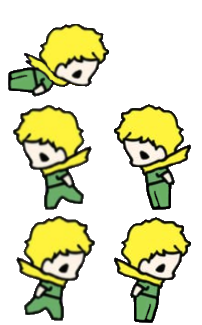
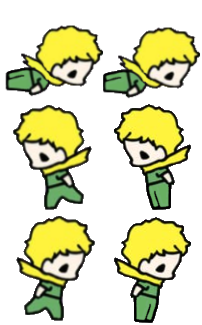
make character move four direction

Changed region(s): [[0.505, 0.0615, 1.0, 0.3077], [0.0, 0.0615, 0.5347, 0.3077]]

diff --git a/Project Runaway/prince.py b/Project Runaway/prince.py
@@ -11,11 +11,14 @@ class Prince:
 
     TIME_PER_ACTION = 0.5
     ACTION_PER_TIME = 1.0 / TIME_PER_ACTION
-    FRAMES_PER_ACTION = 8
+    FRAMES_PER_ACTION = 2
 
     image = None
 
-    LEFT_RUN, RIGHT_RUN, LEFT_STAND, RIGHT_STAND = 0, 1, 2, 3
+    LEFT, RIGHT, UP, DOWN = 1, 0, 2, 3
+
+    state_check = 0
+
 
     def __init__(self):
         self.x, self.y = 20, 90
@@ -23,11 +26,12 @@ class Prince:
         self.frame = 0
         self.life_time = 0.0
         self.total_frames = 0.0
-        self.dir = 0
-        self.state = self.RIGHT_STAND
+        self.dir = 1
+        self.state = self.RIGHT
+        self.state_check = 0
+
         if Prince.image == None:
-#            Prince.image = load_image('prince_animation_small.png')
-            Prince.image = load_image('prince_6_1.png')
+            Prince.image = load_image('prince_7.png')
 
 
     def update(self, frame_time):
@@ -36,28 +40,25 @@ class Prince:
 
         self.life_time += frame_time
         distance = Prince.RUN_SPEED_PPS * frame_time
-##        self.total_frames += Prince.FRAMES_PER_ACTION * Prince.ACTION_PER_TIME * frame_time
         self.total_frames += Prince.FRAMES_PER_ACTION * Prince.ACTION_PER_TIME * frame_time / 2
 
         self.frame = int(self.total_frames) % 2
 #        self.handle_state[self.state](self)
 
-##        self.frame = (self.frame + 1) % 5
-        self.x += (self.dir * distance)
+        self.x += (self.dir * distance)/2
 
         self.x = clamp(0, self.x, 800)
-#        self.frame = (self.frame+1) % 2
-#        self.x += 5
+
+
+        if self.state == self.UP:
+            self.y = min(180, self.y + 90)
+        elif self.state == self.DOWN:
+#            self.y = max(0, self.y - 5)
+            self.y = 90
 
     def draw(self):
     #    self.image.clip_draw(0,0,60,80,self.x,self.y)
-         self.image.clip_draw(self.frame * 100, 0, 100, 112, self.x, self.y)
-
-    #        self.image.clip_draw(self.frame * 100, self.state * 100, 100, 100, self.x, self.y)
-
-    #     self.image.clip_draw(self.frame * 100, self.state * 300, 100, 100, self.x, self.y)
-    #        self.image.clip_draw(self.frame * 50, self.state * 50, 100, 100, self.x, self.y)
-               #   clip_draw(left, bottom, width, height, x, y)
+         self.image.clip_draw(self.frame * 100, (self.state % 5) * 112, 100, 112, self.x, self.y)
 
     def get_bb(self):       #bb - bounding box
         return self.x - 20, self.y - 40, self.x + 20, self.y + 40
@@ -67,33 +68,28 @@ class Prince:
 
     def handle_event(self, event):
         if (event.type, event.key) == (SDL_KEYDOWN, SDLK_LEFT):
-            if self.state in (self.RIGHT_STAND, self.LEFT_STAND, self.RIGHT_RUN):
-                self.state = self.LEFT_RUN
+            if self.state in (self.LEFT, self.RIGHT,self.DOWN, self.UP):
+                self.state = self.LEFT
                 self.dir = -1
+                self.state_check = 0
+
         elif (event.type, event.key) == (SDL_KEYDOWN, SDLK_RIGHT):
-            if self.state in (self.RIGHT_STAND, self.LEFT_STAND, self.LEFT_RUN):
-                self.state = self.RIGHT_RUN
+            if self.state in (self.LEFT, self.RIGHT, self.DOWN, self.UP):
+                self.state = self.RIGHT
                 self.dir = 1
-#        elif (event.type, event.key) == (SDL_KEYDOWN, SDLK_UP):
-#            if self.state in (self.UP_STAND, self.RIGHT_RUN, self.LEFT_RUN):
-#                self.state = self.UP_RUN
-#                self.dir =
+                self.state_check = 1
 
-#        elif (event.type, event.key) == (SDL_KEYDOWN, SDLK_DOWN):
-#            if self.state in ():
-#                self.state =
-#                self.dir =
+        elif (event.type, event.key) == (SDL_KEYDOWN, SDLK_UP):
+            if self.state in (self.RIGHT, self.LEFT, self.DOWN, self.UP):
+                self.state = self.UP
+                self.dir = 1
+                self.state_check = 2
 
-        elif (event.type, event.key) == (SDL_KEYUP, SDLK_LEFT):
-            if self.state in (self.LEFT_RUN,):
-                self.state = self.LEFT_STAND
-                self.dir = 0
-        elif (event.type, event.key) == (SDL_KEYUP, SDLK_RIGHT):
-            if self.state in (self.RIGHT_RUN,):
-                self.state = self.RIGHT_STAND
-                self.dir = 0
-
-
+        elif (event.type, event.key) == (SDL_KEYDOWN, SDLK_DOWN):
+            if self.state in (self.RIGHT, self.LEFT, self.UP):
+                self.state = self.DOWN
+                self.dir = 1
+                self.state_check = 3
 
 
 
